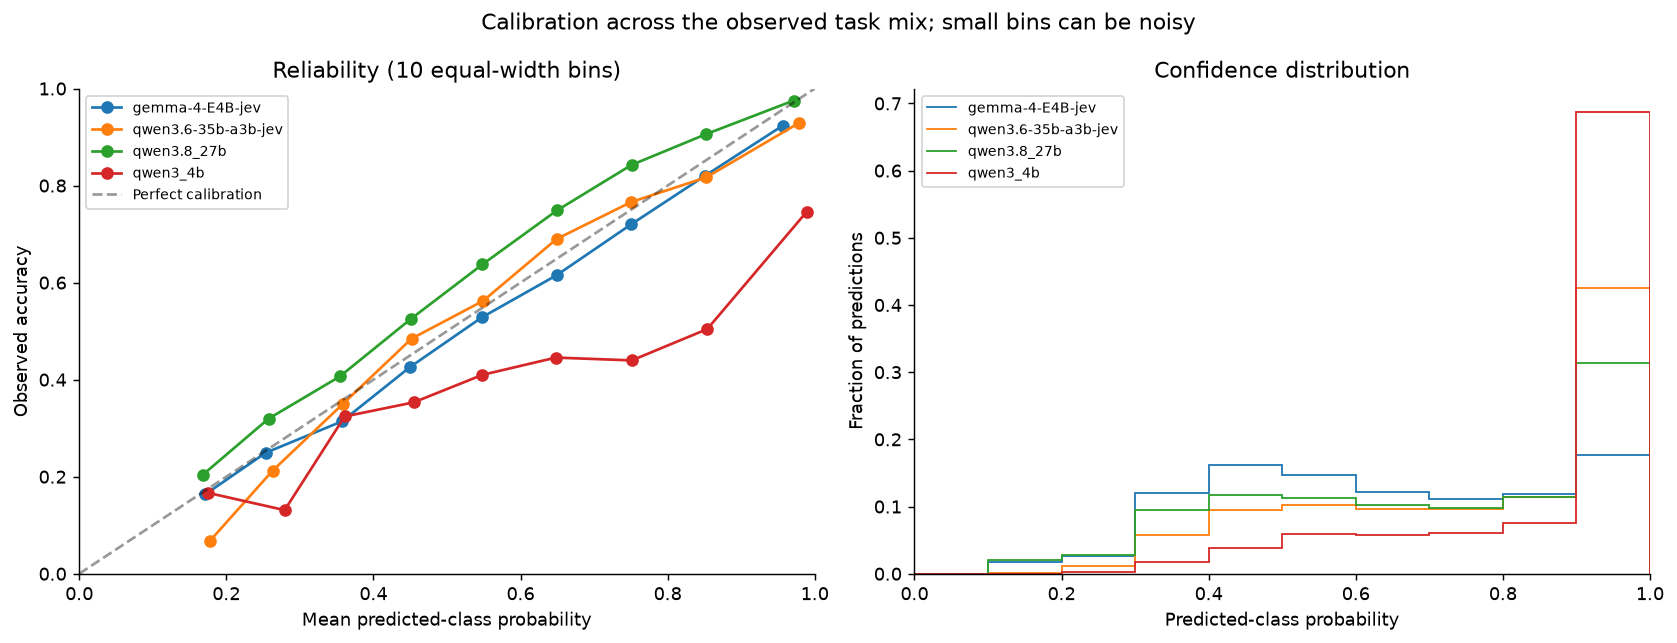
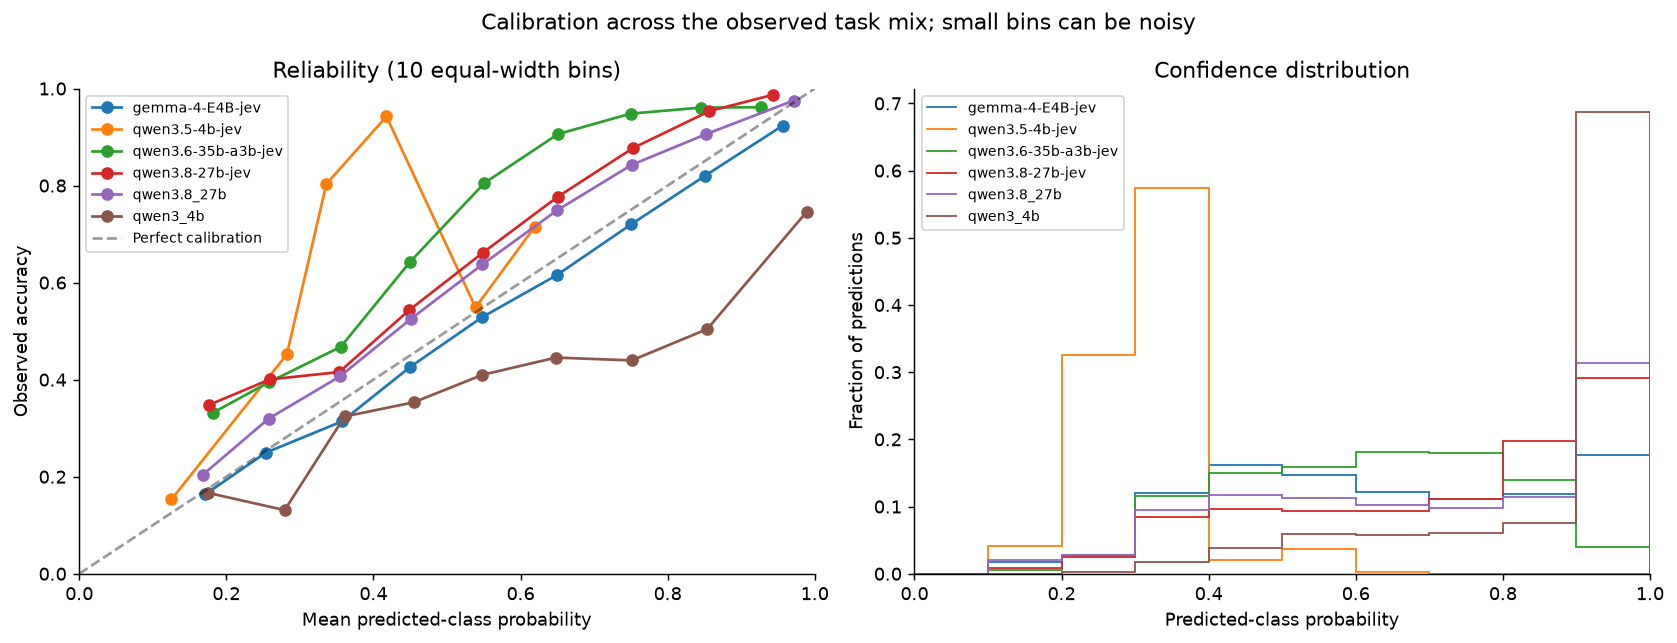
bench

diff --git a/benchmarks/charts/README.md b/benchmarks/charts/README.md
@@ -12,7 +12,9 @@ GSM8K distractor ordering, dataset revisions and subset selection can affect com
 | Model | Questions | Tasks | Micro accuracy | Macro accuracy | NLL | ECE | Requests/s | Concurrency |
 |---|---:|---:|---:|---:|---:|---:|---:|---:|
 | gemma-4-E4B-jev | 32235 | 9 | 60.83% | 54.99% | 0.968 | 0.029 | 26.24 | 30 |
-| qwen3.6-35b-a3b-jev | 32235 | 9 | 75.48% | 65.96% | 0.730 | 0.036 | 5.33 | 10 |
+| qwen3.5-4b-jev | 32235 | 9 | 65.52% | 54.88% | 1.233 | 0.335 | 17.07 | 10 |
+| qwen3.6-35b-a3b-jev | 32235 | 9 | 79.94% | 70.78% | 0.695 | 0.187 | 7.74 | 30 |
+| qwen3.8-27b-jev | 32235 | 9 | 80.74% | 72.98% | 0.566 | 0.087 | 3.83 | 10 |
 | qwen3.8_27b | 32235 | 9 | 75.27% | 65.94% | 0.687 | 0.053 | 2.93 | 10 |
 | qwen3_4b | 32235 | 9 | 64.76% | 58.13% | 2.273 | 0.237 | 20.90 | 10 |
 
@@ -26,12 +28,13 @@ GSM8K distractor ordering, dataset revisions and subset selection can affect com
 ## Excluded runs
 
 - results_granite4.2_3b: unresolved model identity
-- results_k2_horizon: unresolved model identity
 
 ## Sources
 
 - results_gemma-4-E4B-jev/results.json
+- results_qwen3.5-4b-jev/results.json
 - results_qwen3.6-35b-a3b-jev/results.json
+- results_qwen3.8-27b-jev/results.json
 - results_qwen3.8_27b/results.json
 - results_qwen3_4b/results.json
 - https://huggingface.co/AlexWortega/openjev/blob/main/results/qwen4b_all.json

diff --git a/README.md b/README.md
@@ -106,6 +106,11 @@ HTTP process and `GET /ready` reports whether the model worker is available.
 
 ## Benchmark
 
+![Combined benchmark radar comparing DIY Jev models with published OpenJev results](benchmarks/charts/combined-radar.png)
+
+*Accuracy on the reconstructed nine-axis suite. OpenJev values come from its
+published result files; polygon area is not an aggregate score.*
+
 Start the server, then run the included OpenJev radar reconstruction:
 
 ```sh
